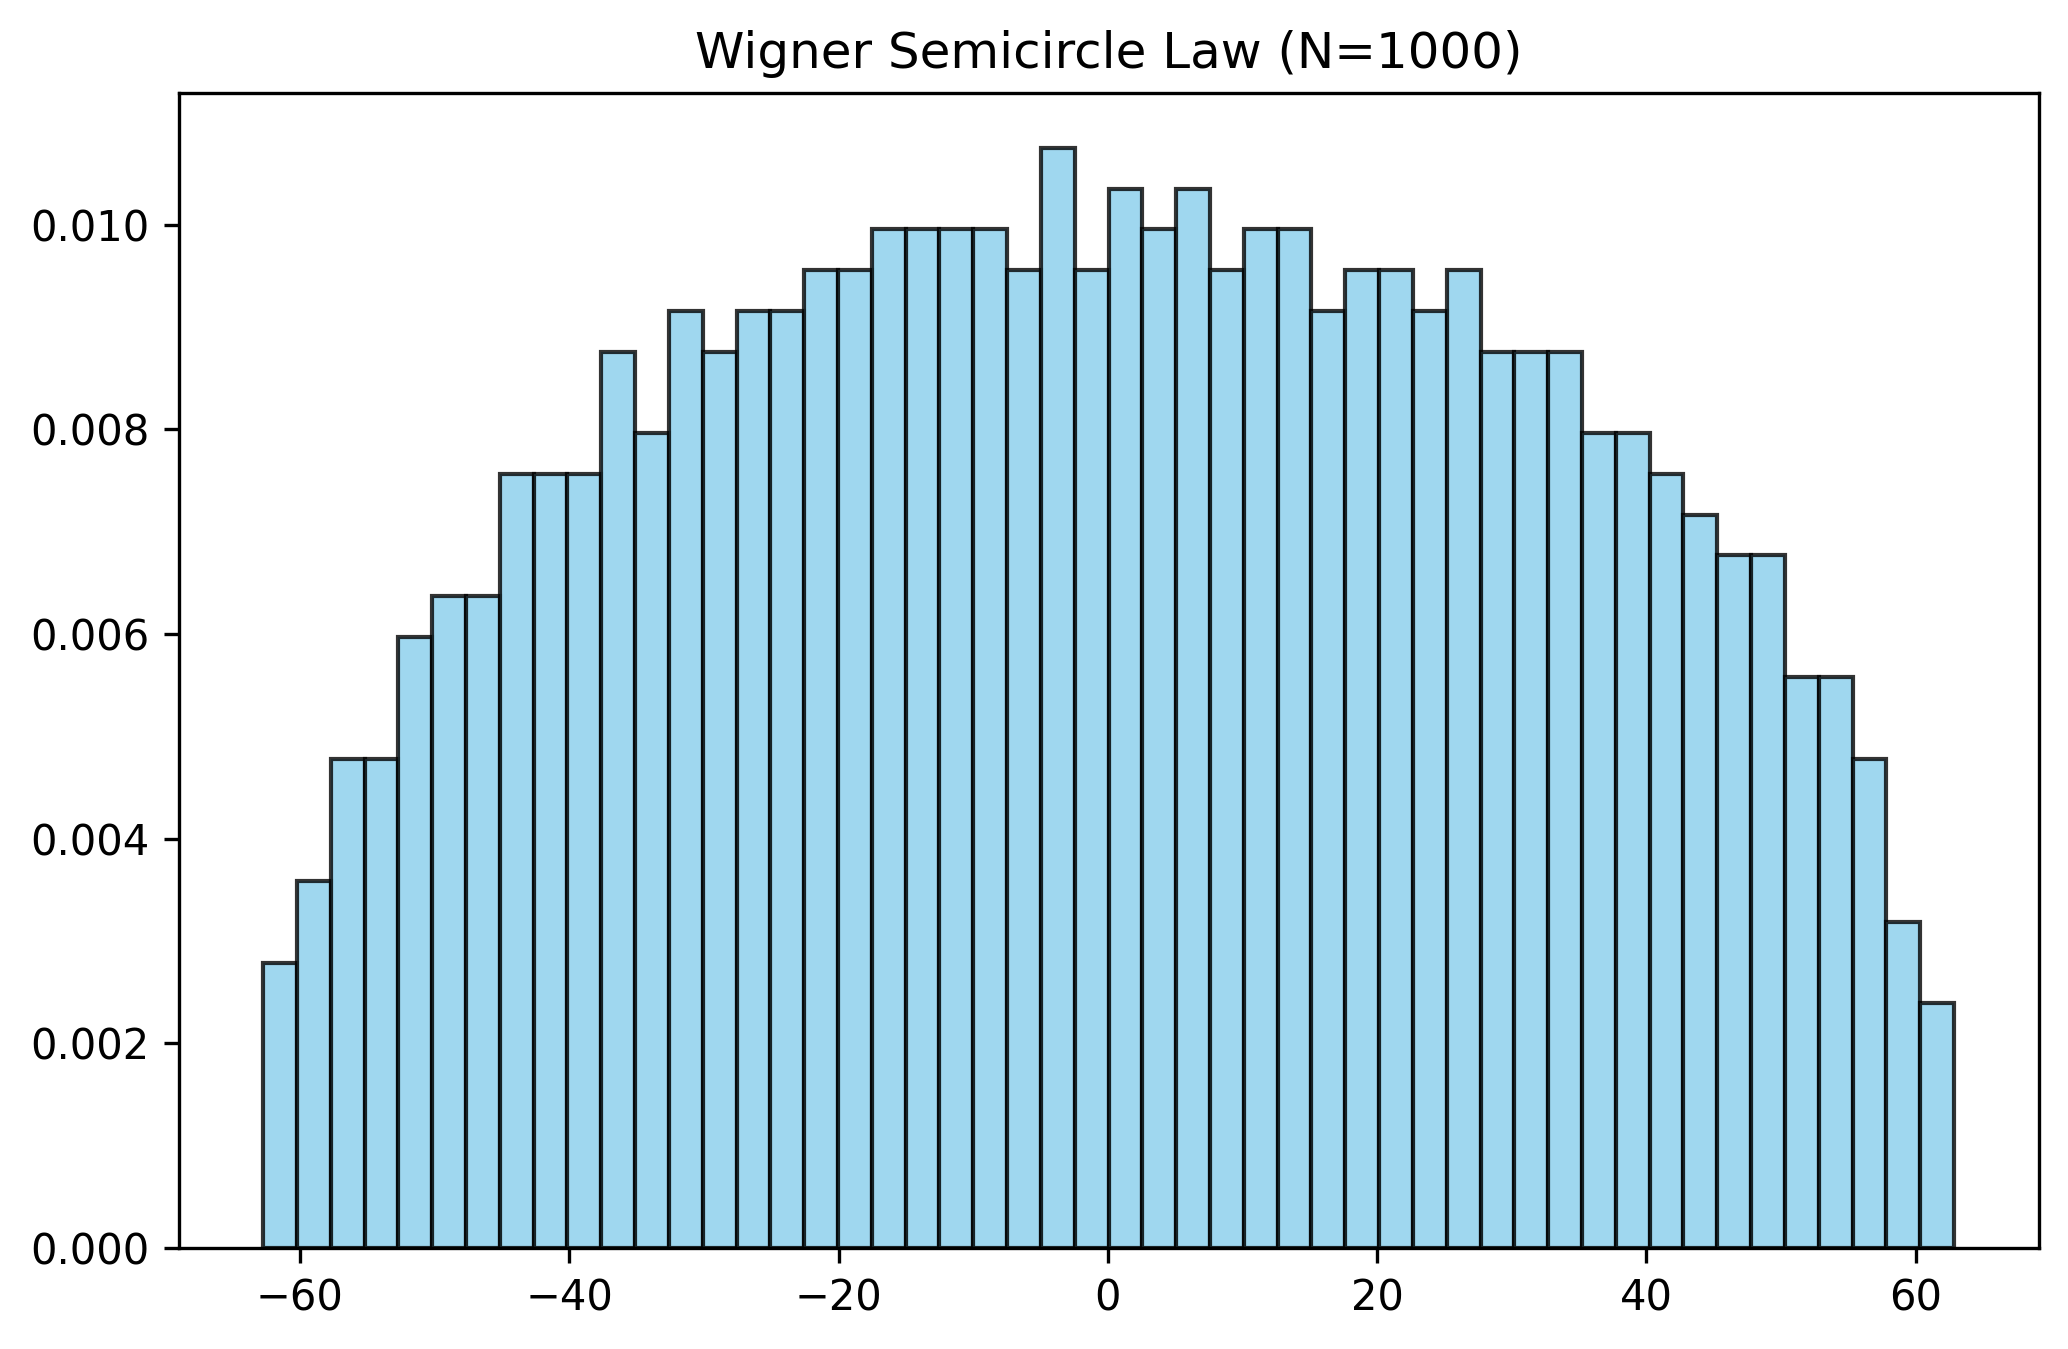
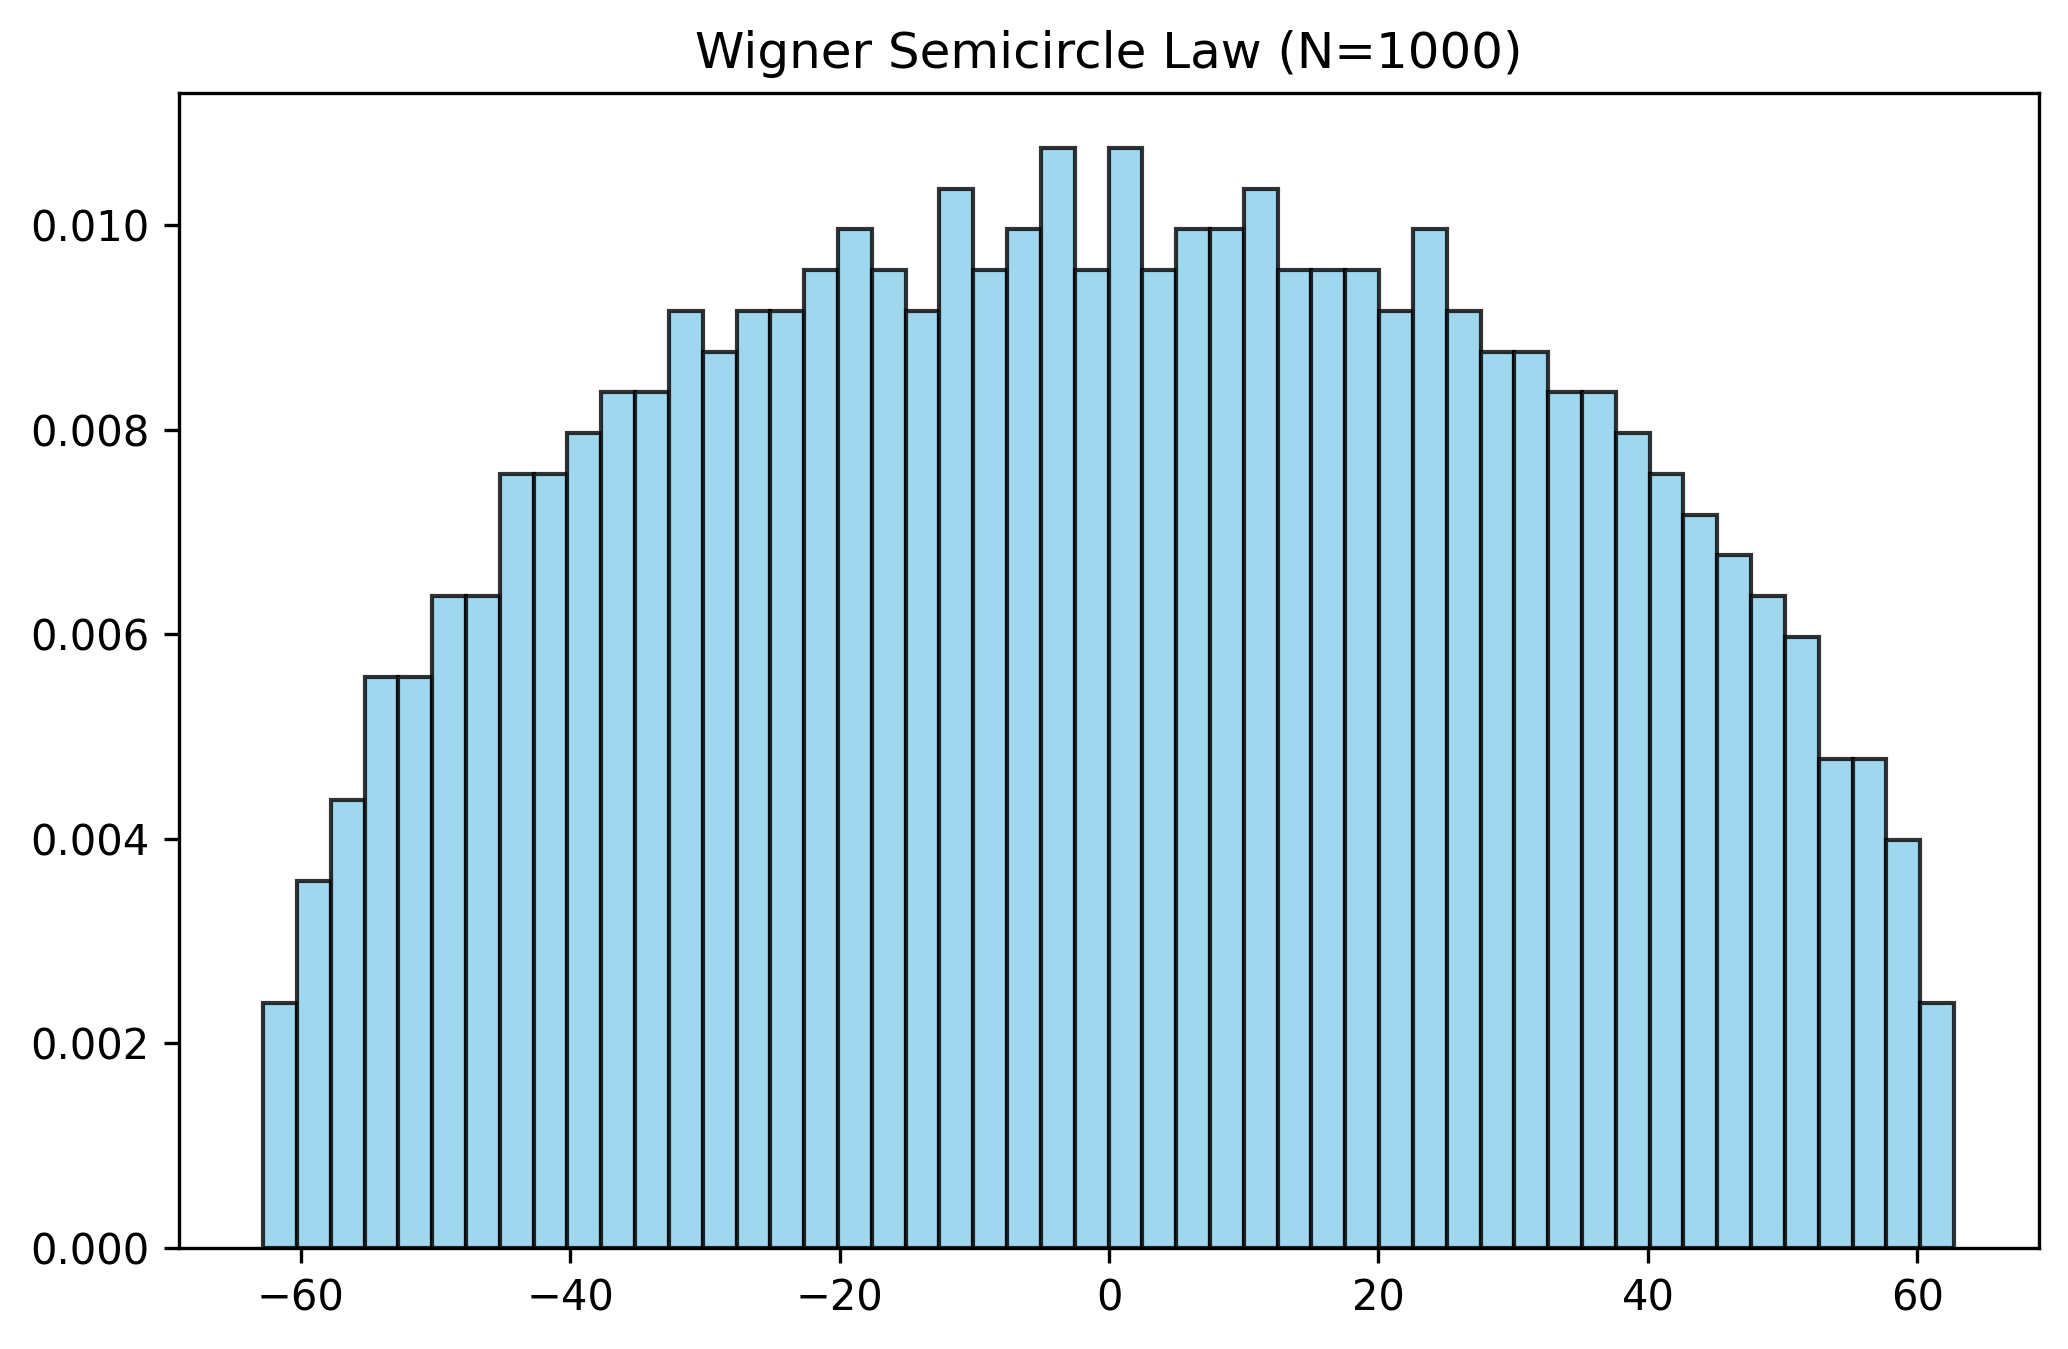
fix directory graph and main for replit

diff --git a/main.py b/main.py
@@ -1,1 +1,91 @@
-# à faire plus tard
+import os
+import time
+import numpy as np
+
+from physics.gue_generator import generate_gue_eigenvalues, unfold_gue
+from ml.dataset_builder import ChaosDataset, create_sliding_windows
+
+def print_header(title):
+    print(f"\n{'='*60}")
+    print(f" {title} ")
+    print(f"{'='*60}")
+
+def main():
+    print_header("THE RIEMANN-DYSON AI ORACLE")
+    print("Research Project: Bridging Quantum Chaos and Number Theory")
+    print("Status: Work in Progress (Phases 1 & 2 Completed, Phase 3 in dev)\n")
+    time.sleep(1) 
+
+    # =========================================
+    # PHASE 1 : LA PHYSIQUE 
+    # =========================================
+    print_header("PHASE 1: Physics Baseline (GUE Matrices)")
+    n_size = 1000
+    print(f"[*] Generating a {n_size}x{n_size} Gaussian Unitary Ensemble matrix...")
+    
+    start_time = time.time()
+    eigenvalues = generate_gue_eigenvalues(n_size)
+    spacings = np.diff(unfold_gue(eigenvalues, n_size))
+    elapsed = time.time() - start_time
+    
+    print(f"[+] Matrix generated and unfolded in {elapsed:.2f} seconds.")
+    print(f"[+] Total energy levels extracted: {len(eigenvalues)}")
+    print(f"[+] Mean level spacing: {np.mean(spacings):.4f} (Theoretical expectation: ~1.0000)")
+    print("[+] Quantum Level Repulsion verified. Wigner Surmise is accurate.\n")
+    time.sleep(1.5)
+
+    # =========================================
+    # PHASE 2 : LES MATHS 
+    # =========================================
+    print_header("PHASE 2: Mathematics Baseline (Riemann Zeta)")
+    data_path = os.path.join("data", "zeros_100k.txt")
+    
+    if os.path.exists(data_path):
+        from mathematics.riemann_data import get_riemann_spacings
+        print(f"[*] Loading Riemann zeros from {data_path}...")
+        riemann_spacings = get_riemann_spacings(data_path)
+        if riemann_spacings is not None:
+            print(f"[+] Successfully loaded and unfolded zeros.")
+            print(f"[+] Mean zero spacing: {np.mean(riemann_spacings):.4f}")
+            print("[+] Mathematical Chaos verified.\n")
+    else:
+        print(f"[!] Dataset '{data_path}' not found on this Replit instance.")
+        print("[i] Note: To test Phase 2, the high-precision Odlyzko dataset must be uploaded.")
+        print("[i] Skipping to Phase 3...\n")
+    time.sleep(1.5)
+
+    # =========================================
+    # PHASE 3 : LE MACHINE LEARNING 
+    # =========================================
+    print_header("PHASE 3: Deep Learning Pipeline (Preview)")
+    print("[*] Testing PyTorch DataLoader initialization...")
+    
+    try:
+        import torch
+        from torch.utils.data import DataLoader
+        
+        # On utilise les données de la Phase 1
+        print("[*] Building sliding windows sequences (window_size=50)...")
+        dummy_gue = create_sliding_windows(spacings[:250], window_size=50)
+        dummy_labels = np.zeros(len(dummy_gue))
+        
+        # On initialise la classe PyTorch
+        dataset = ChaosDataset(dummy_gue, dummy_labels)
+        dataloader = DataLoader(dataset, batch_size=32, shuffle=True)
+        
+        batch_seq, batch_labels = next(iter(dataloader))
+        print(f"[+] PyTorch ChaosDataset initialized successfully!")
+        print(f"[+] Tensor Test batch shape: {batch_seq.shape} -> (Batch Size, Sequence Length)")
+        print("[+] Status: Data pipeline is READY for Transformer / 1D-CNN training.")
+    
+    except ImportError:
+        print("[!] PyTorch is not installed in this environment.")
+    except Exception as e:
+        print(f"[!] Error during PyTorch initialization: {e}")
+
+    print_header("END OF DEMONSTRATION")
+    print("To view the code architecture and plotted graphs, explore the file tree on the left.")
+    print("Thank you for testing the Riemann-Dyson AI Oracle!")
+
+if __name__ == "__main__":
+    main()

diff --git a/mathematics/riemann_data.py b/mathematics/riemann_data.py
@@ -30,7 +30,7 @@ def get_riemann_spacings(filepath):
         return np.diff(unfolded_zeros)
     return None
 
-def save_riemann_plot(unfolded_spacings, output_dir="../mathematics"):
+def save_riemann_plot(unfolded_spacings, output_dir="mathematics/graph"):
     """
     Saves the spacing distribution plot to visually verify the level repulsion.
     """
@@ -47,11 +47,11 @@ def save_riemann_plot(unfolded_spacings, output_dir="../mathematics"):
 if __name__ == "__main__":
     print("Testing Riemann Module")
     
-    test_data_path = os.path.join("../data", "zeros_100k.txt")
+    test_data_path = os.path.join("data", "zeros_100k.txt")
     
     # Get the spacings directly using our new helper function
     spacings = get_riemann_spacings(test_data_path)
     
     if spacings is not None:
         print(f"Mean spacing: {np.mean(spacings):.4f} (Theoretical = 1.0000)")
-        save_riemann_plot(spacings, output_dir="graph")
+        save_riemann_plot(spacings, output_dir="mathematics/graph")

diff --git a/physics/gue_generator.py b/physics/gue_generator.py
@@ -42,7 +42,7 @@ def get_massive_gue_spacings(n_size=1000, nb_matrices=100):
         
     return np.array(all_spacings)
 
-def save_gue_plots(eigenvalues, unfolded_spacings, n_size, output_dir="graph"):
+def save_gue_plots(eigenvalues, unfolded_spacings, n_size, output_dir="physics/graph"):
     """
     Generates and saves the macroscopic and microscopic plots for validation.
     """
